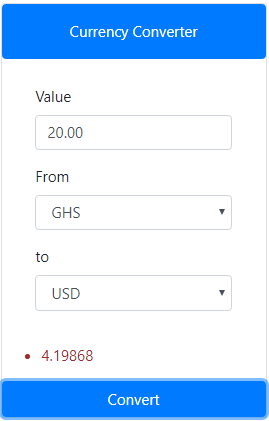
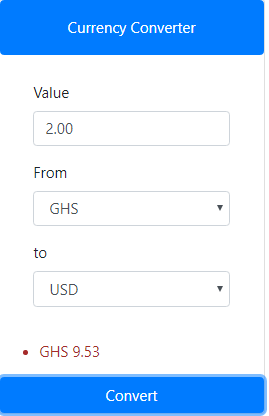
added validation

diff --git a/js/project.js b/js/project.js
@@ -62,8 +62,8 @@ function fetchAnyAPI(url){
       keys.forEach(function(key){
       result = data[key];
        var convert = valueData.value * result;
-        console.log(convert);
-        li.innerHTML = convert;      
+        console.log(valueData.value, result);
+        li.innerHTML = from.value+" "+ convert.toFixed(2);      
      });
     })   
    
@@ -74,13 +74,17 @@ function fetchAnyAPI(url){
  */
   button.addEventListener('click', function (e) {
     e.preventDefault(); 
-    //combine currency
-    var combine = from.value+"_"+to.value
-    console.log(combine);
-    let resultData = conversionRate(combine);
+   
+    if(valueData.value === ""){
+      alert("The value field is empty");
     
-    //let convert = from.value * to.value
-    //valueData.value = "";
+    }else{
+       //combine currency
+      var combine = to.value + "_" + from.value
+      console.log(combine);
+      let resultData = conversionRate(combine);
+    }
+    
 
   });
 
